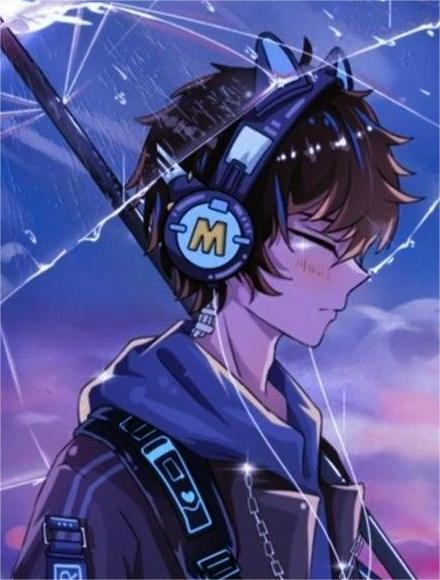
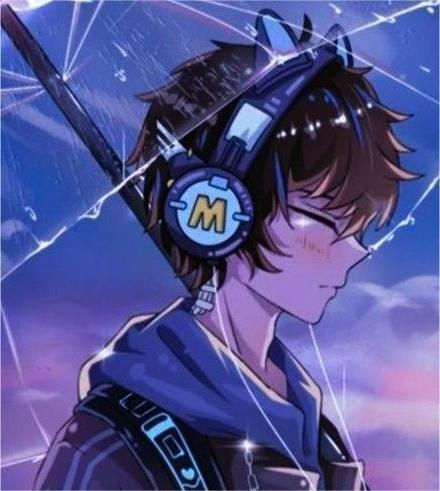
o0o

diff --git a/resources/js/swiper_fullpage1.js b/resources/js/swiper_fullpage1.js
@@ -131,14 +131,14 @@ if (header) {
                     imageEl.style.setProperty('aspect-ratio', ratio, 'important');
                 });
             } else {
-                const ratio = screenWidth / (newHeight * 0.71);
-                imageEls.forEach(imageEl => {
-                    imageEl.style.setProperty('aspect-ratio', ratio, 'important');
-                });
-                const imageEl = mySwiperOuter1.querySelector('.image-mobile');
-                if (imageEl) {
-                    imageHeight = imageEl.offsetHeight;
-                }
+                // const ratio = screenWidth / (newHeight * 0.71);
+                // imageEls.forEach(imageEl => {
+                //     imageEl.style.setProperty('aspect-ratio', ratio, 'important');
+                // });
+                // const imageEl = mySwiperOuter1.querySelector('.image-mobile');
+                // if (imageEl) {
+                //     imageHeight = imageEl.offsetHeight;
+                // }
             }
         }
         const textScrollables = mySwiperOuter1.querySelectorAll('.text-scrollable');

diff --git a/resources/css/custom.css b/resources/css/custom.css
@@ -91,6 +91,7 @@
 
     .image-mobile {
         display: block;
+        aspect-ratio: 440 / 491;
     }
 
     .resolver {

diff --git a/resources/views/taiwind/landing5.blade.php b/resources/views/taiwind/landing5.blade.php
@@ -26,8 +26,8 @@
             <div class="swiper-slide">
                 <div class="flex resolver">
                     <div class="w-3/5 right-col">
-                        <img src="{{ asset('images/1.webp') }}" class="image  image-desktop" alt="">
-                        <img src="{{ asset('images/mo_1.jpg') }}" class="image  image-mobile" alt="">
+                        <img src="{{ asset('images/1.webp') }}" class="image image-desktop" alt="">
+                        <img src="{{ asset('images/mo_1.jpg') }}" class="image image-mobile" alt="">
                     </div>
                     <div class="w-2/5 p-8 left-col">
                         <h2 class="text-4xl font-bold mb-4">Section 1</h2>
